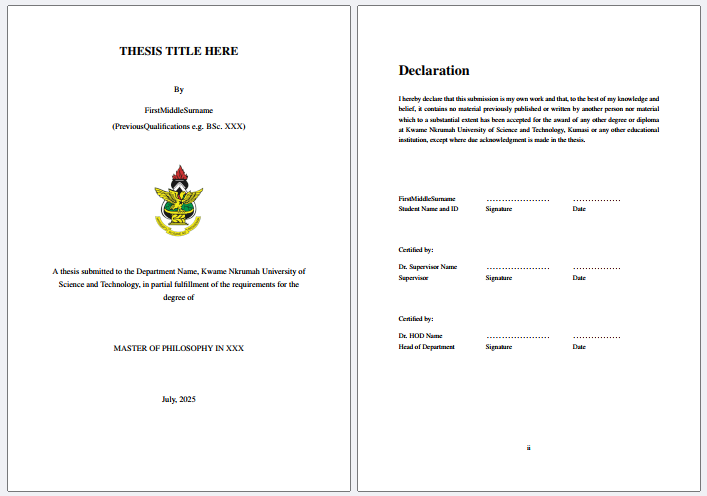
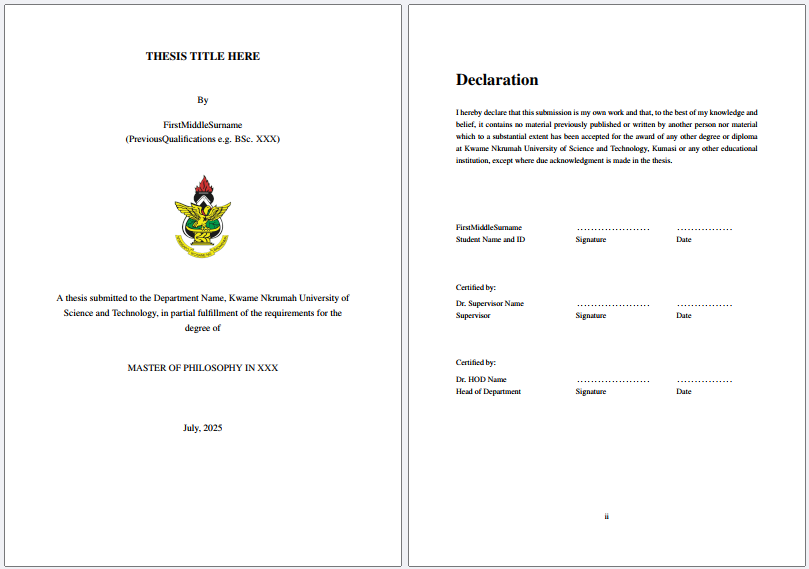
Improve template formatting and layout consistency
- Adjust title page spacing and font sizes for better proportions
- Standardize declaration page table layout
- Add proper spacing to abbreviations list for better readability
- Reorganize Chapter 4 content and move appendix references
- Remove redundant mathptmx package to avoid font conflicts
- Update README

diff --git a/frontmatter/declaration.tex b/frontmatter/declaration.tex
@@ -11,7 +11,7 @@ I hereby declare that this submission is my own work and that, to the best of my
 \vspace{3cm}
 
 \noindent
-\begin{tabular}{@{}p{4cm}p{0.5cm}p{4cm}p{0.5cm}p{3cm}@{}}
+\begin{tabular}{@{}p{5cm}p{0.5cm}p{4cm}p{0.5cm}p{3cm}@{}}
 \thesisauthor & & \dotfill & & \dotfill \\
 Student Name and ID & & Signature & & Date \\
 \end{tabular}
@@ -20,10 +20,10 @@ Student Name and ID & & Signature & & Date \\
 
 \noindent
 Certified by:
-\vspace{0.5cm}
+\vspace{0.3cm}
 
 \noindent
-\begin{tabular}{@{}p{4cm}p{0.5cm}p{4cm}p{0.5cm}p{3cm}@{}}
+\begin{tabular}{@{}p{5cm}p{0.5cm}p{4cm}p{0.5cm}p{3cm}@{}}
 \thesissupervisor & & \dotfill & & \dotfill \\
 Supervisor & & Signature & & Date \\
 \end{tabular}
@@ -32,10 +32,10 @@ Supervisor & & Signature & & Date \\
 
 \noindent
 Certified by:
-\vspace{0.5cm}
+\vspace{0.3cm}
 
 \noindent
-\begin{tabular}{@{}p{4cm}p{0.5cm}p{4cm}p{0.5cm}p{3cm}@{}}
+\begin{tabular}{@{}p{5cm}p{0.5cm}p{4cm}p{0.5cm}p{3cm}@{}}
 \thesishod & & \dotfill & & \dotfill \\
 Head of Department & & Signature & & Date \\
 \end{tabular}

diff --git a/chapters/chapter4.tex b/chapters/chapter4.tex
@@ -47,7 +47,7 @@ Present your second major finding.
 % Note: Replace 'knust-logo.png' with your actual figure file
 % Supported formats: PDF, PNG, JPG, EPS
 \singlespace
-\caption{Sample Figure Caption. Additional maps and detailed diagrams are available in Appendix~\ref{app:maps}.}
+\caption{Sample Figure Caption.}
 \label{fig:sample}
 \endsinglespace
 \end{figure}
@@ -55,6 +55,8 @@ Present your second major finding.
 \section{Statistical Analysis}
 
 Present any statistical analysis results. The raw data and detailed statistical outputs are provided in Appendix~\ref{app:data}. All data analysis was conducted using custom scripts (see Appendix~\ref{app:programs} for the complete code).
+
+Additional maps and detailed diagrams are available in Appendix~\ref{app:maps}.
 
 \section{Discussion of Findings}
 

diff --git a/frontmatter/title.tex b/frontmatter/title.tex
@@ -8,12 +8,12 @@
 \begin{center}
 
 % Title - bold and larger
-{\LARGE \textbf{\MakeUppercase{\thesistitle}}}\\[1.5cm]
+{\Large \textbf{\MakeUppercase{\thesistitle}}}\\[1.5cm]
 
 % Author
 {\large By\\[0.5cm]
-\thesisauthor\\[0.3cm]
-(\thesispreviousdegrees)}\\[2cm]
+\thesisauthor\\[0.15cm]
+(\thesispreviousdegrees)}\\[1.5cm]
 
 
 % University logo
@@ -21,7 +21,7 @@
 
 
 % Degree statement
-{\large A thesis submitted to the \thesisdepartment, \thesisuniversity, in partial fulfillment of the requirements for the degree of\\[2.5cm]
+{\large A thesis submitted to the \thesisdepartment, \thesisuniversity, in partial fulfillment of the requirements for the degree of\\[1.5cm]
 \MakeUppercase{\thesisdegree}}\\[2.5cm]
 
 

diff --git a/main.tex b/main.tex
@@ -27,7 +27,6 @@
 \usepackage[utf8]{inputenc}
 \usepackage[T1]{fontenc}
 \usepackage{times} % Font - Times New Roman
-\usepackage{mathptmx} % Times font for math
 
 % Page layout and margins
 % SOFT COPY VERSION (current settings)

diff --git a/frontmatter/list_of_abbreviations.tex b/frontmatter/list_of_abbreviations.tex
@@ -7,7 +7,7 @@
 \thispagestyle{plain}
 
 {\setstretch{1.5}
-\begin{tabular}{ll}
+\begin{tabular}{l@{\hspace{3em}}l}
 API & Application Programming Interface \\
 GDP & Gross Domestic Product \\
 GPS & Global Positioning System \\

diff --git a/README.md b/README.md
@@ -8,7 +8,7 @@ A comprehensive LaTeX template for MPhil and PhD theses following KNUST's format
 
 This template is designed to be clean, reusable, and easily customizable for different thesis requirements.
 
-Give this Repo a Star ⭐ 
+Give this Repo a Star ⭐
 
 ## Features
 
@@ -75,7 +75,13 @@ pdflatex main.tex
 pdflatex main.tex
 ```
 
-The resultant output is `main.pdf`. Run the above command to view the template
+The resultant output is `main.pdf`. Run the above command to view the template's version.
+
+
+> [!NOTE]
+>
+> Current page settings are for soft-copy viewing only! If you intend to produce a hardbound printout, use the print settings, which are optimized for book binding. Read the [FAQs](#faqs-and-open-issues)
+
 
 ## File Structure
 
